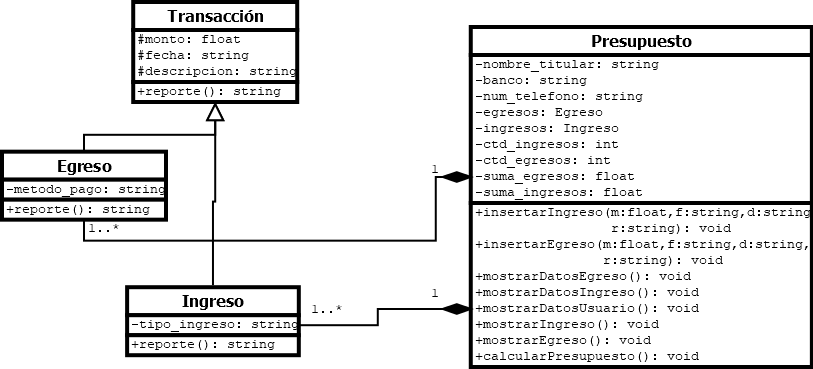
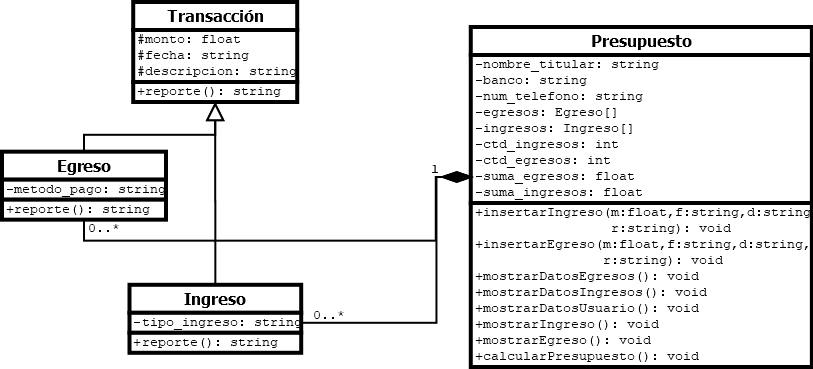
Correcciones finales al proyecto.

diff --git a/main.cpp b/main.cpp
@@ -16,7 +16,7 @@
  * que puede realizar el usuario
  * 
  * 
-*/
+ */
 
 void menu(){
     std::cout << "********** MENU  DE OPCIONES **********" << std::endl;
@@ -34,11 +34,11 @@ void menu(){
 
 /*
  * El presente programa está hecho para la clase de 
- * Pensamiento Computacional Orientado a Objtos. Consiste 
+ * Pensamiento Computacional Orientado a Objetos. Consiste 
  * en un sistema de ingresos y egresos que busca ser similar a 
  * Paypal, donde podemos tener varias cuentas a las que registramos
  * dichas transacciones.
-*/
+ */
 
 int main(){
 
@@ -46,11 +46,19 @@ int main(){
     char respuesta_usuario = ' ';
     int num_cuentas = 1;
     int cuenta_actual = 0;
+    float _ctd;
+    std::string fecha, fuente, detalles;
+    std::string nombre, banco, telefono;
     
     // Ciclo que mantiene el programa funcionando hasta que el usuario decida detenerlo
     while(respuesta_usuario != '0'){
         menu();
-        std::cout << "Que desea hacer?: ";
+
+        if(cuentas[cuenta_actual].getNombreTitular()=="" || cuentas[cuenta_actual].getBanco()=="" || cuentas[cuenta_actual].getNumTelefono()==""){
+            std::cout << "Nota: su cuenta esta incompleta" << std::endl;
+        }
+
+        std::cout << "Que desea hacer?: ";  
         std::cin >> respuesta_usuario;
 
         switch(respuesta_usuario){
@@ -64,7 +72,7 @@ int main(){
             * 
             */
             case '1':{
-                if(num_cuentas > 1){
+                if(num_cuentas > 0){
                     std::cout << "N. de cuentas disponibles: " << num_cuentas <<std::endl;
                         for(int i = 0; i < num_cuentas; i++){
                             std::cout << (i+1) << "."<< std::endl;
@@ -82,12 +90,14 @@ int main(){
             //En este segundo caso, se muestran los datos de todos los egresos de la cuenta.
             case '2':{
                 cuentas[cuenta_actual].mostrarDatosEgresos();
+                cuentas[cuenta_actual].mostrarEgreso();
                 break;
             }
 
-            //EPara el tercer caso, se hace lo mismo que en el caso anterior, ahora para los ingresos
+            //Para el tercer caso, se hace lo mismo que en el caso anterior, ahora para los ingresos
             case '3':{
                 cuentas[cuenta_actual].mostrarDatosIngresos();
+                cuentas[cuenta_actual].mostrarIngreso();
                 break;
             }
 
@@ -101,23 +111,18 @@ int main(){
             /*
              * Quinto caso. Se solicita información para crear un nuevo egreso y 
              * colocarlo en la cuenta actual
-            */
+             */
             case '5':{
-                float _ctd;
-                std::string fecha;
-                std::string fuente;
-                std::string detalles;
-
-                std::cout << "Ingrese la cantidad que se ha gastado: "<< std::endl;
-                std::cin >> _ctd;
+            
+                std::cin.ignore();
                 std::cout << "Ingrese el metodo de pago: "<< std::endl;
-                std::cin.ignore(1, '\n');
                 std::getline(std::cin, fuente);
                 std::cout << "Ingrese la fecha que se ha generado la compra: "<< std::endl;
-                std::cin >> fecha;
+                std::getline(std::cin, fecha);
                 std::cout << "Ingrese detalles de la compra: "<< std::endl;
-                std::cin.ignore(1, '\n');
                 std::getline(std::cin, detalles);
+                std::cout << "Ingrese la cantidad que se ha gastado: "<< std::endl;
+                std::cin >> _ctd;
 
                 cuentas[cuenta_actual].insertarEgreso(_ctd, fecha, detalles, fuente);
                 break;
@@ -125,21 +130,16 @@ int main(){
 
             //Mismo proceso que el anterior, pero ahora solicita información para insertar un ingreso
             case '6':{
-                float _ctd;
-                std::string fecha;
-                std::string fuente;
-                std::string detalles;
 
-                std::cout << "Ingrese la cantidad que se ha ganado: "<< std::endl;
-                std::cin >> _ctd;
+                std::cin.ignore();
                 std::cout << "Ingrese la fuente del ingreso: "<< std::endl;
-                std::cin.ignore(1, '\n');
                 std::getline(std::cin, fuente);
                 std::cout << "Ingrese la fecha que se ha generado el ingreso: "<< std::endl;
-                std::cin >> fecha;
+                std::getline(std::cin, fecha);
                 std::cout << "Ingrese detalles de la transaccion: "<< std::endl;
-                std::cin.ignore(1, '\n');
                 std::getline(std::cin, detalles);
+                std::cout << "Ingrese la cantidad que se ha ganado: "<< std::endl;
+                std::cin >> _ctd;
 
                 cuentas[cuenta_actual].insertarIngreso(_ctd, fecha, detalles, fuente);
                 break;
@@ -147,16 +147,15 @@ int main(){
 
             // Solicita información para crear una cuenta nueva
             case '7':{
-                std::string nombre, banco, telefono;
+                
+                std::cin.ignore();
                 std::cout << "Ingrese el nombre del titular de la cuenta: ";
-                std::cin.ignore(1, '\n');
                 std::getline(std::cin, nombre);
                 std::cout << "Ingrese el banco al que pertenece la cuenta: ";
-                std::cin >> banco;
+                std::getline(std::cin, banco);
                 std::cout << "Ingrese el telefono de contacto del titular de la cuenta: ";
-                std::cin >> telefono;
-                std::cout << std::endl;
-                cuentas[num_cuentas-1] = Presupuesto(nombre, banco, telefono);
+                std::getline(std::cin, telefono);
+                cuentas[num_cuentas] = Presupuesto(nombre, banco, telefono);
                 num_cuentas++;
                 break;
             }
@@ -172,20 +171,20 @@ int main(){
             * para cambiar los datos de la cuenta actual 
             */
             case '9':{
-                std::string nombre, banco, telefono;
+
+                std::cin.ignore();
                 std::cout << "Ingrese el nombre del titular de la cuenta: ";
-                std::cin.ignore(1, '\n');
                 std::getline(std::cin, nombre);
                 std::cout << "Ingrese el banco al que pertenece la cuenta: ";
-                std::cin >> banco;
+                std::getline(std::cin, banco);
                 std::cout << "Ingrese el telefono de contacto del titular de la cuenta: ";
-                std::cin >> telefono;
+                std::getline(std::cin, telefono);
                 std::cout << std::endl;
                 
                 cuentas[cuenta_actual].setNombreTitular(nombre);
                 cuentas[cuenta_actual].setBanco(banco);
                 cuentas[cuenta_actual].setNumTelefono(telefono);
-                 break;
+                break;
             }
         }
     }

diff --git a/Presupuesto.h b/Presupuesto.h
@@ -34,16 +34,19 @@ class Presupuesto{
 
         //Constructor con parametros
         Presupuesto(std::string nombre, std::string empresa, std::string telefono) : nombre_titular(nombre), banco(empresa), num_telefono(telefono){};
+
+        //Getters y Setters
         void setNombreTitular(std::string);
         void setNumTelefono(std::string);
         void setBanco(std::string);
         std::string getNombreTitular();
         std::string getNumTelefono();
         std::string getBanco();
+
         void insertarIngreso(float, std::string, std::string, std::string);
         void insertarEgreso(float, std::string, std::string, std::string);
-        void mostrarDatosIngresos();
         void mostrarDatosEgresos();
+        void mostrarDatosIngresos();
         void mostrarDatosUsuario();
         void mostrarIngreso();
         void mostrarEgreso();
@@ -55,7 +58,7 @@ class Presupuesto{
  *
  * @param 
  * @return objeto Presupuesto
-*/
+ */
 Presupuesto::Presupuesto(){
     nombre_titular = "";
     banco = "";
@@ -67,7 +70,7 @@ Presupuesto::Presupuesto(){
  *
  * @param string n: nombre del titular de la cuenta
  * @return
-*/
+ */
 void Presupuesto::setNombreTitular(std::string n){
     nombre_titular = n;
 }
@@ -81,6 +84,7 @@ void Presupuesto::setNombreTitular(std::string n){
 void Presupuesto::setBanco(std::string b){
     banco = b;
 }
+
 /**
  * setter telefono
  *
@@ -106,7 +110,7 @@ std::string Presupuesto::getNombreTitular(){
  *
  * @param 
  * @return string banco: nombre del banco al que pertenece la cuenta: 
-*/
+ */
 std::string Presupuesto::getBanco(){
     return banco;
 }
@@ -126,15 +130,14 @@ std::string Presupuesto::getNumTelefono(){
  *y guardarlo dentro del arreglo de dicha clase
  */
 void Presupuesto::insertarIngreso(float m, std::string f, std::string d, std::string r){
-    Ingreso ingreso(m, f, d, r);
-    ingresos[ctd_ingresos] = ingreso;
+    ingresos[ctd_ingresos] = Ingreso(m, f, d, r);
     suma_ingresos+=m;
     ctd_ingresos++;
 }
 
 /*
- *Solicita varios parámetros que permitan crear un egreso 
- *y guardarlo dentro del arreglo de dicha clase
+ * Solicita varios parámetros que permitan crear un egreso 
+ * y guardarlo dentro del arreglo de dicha clase
  */
 
 /*
@@ -145,8 +148,7 @@ void Presupuesto::insertarIngreso(float m, std::string f, std::string d, std::st
  * @return  
 */
 void Presupuesto::insertarEgreso(float m, std::string f, std::string d, std::string r){
-    Egreso egreso(m, f, d, r);
-    egresos[ctd_egresos] = egreso;
+    egresos[ctd_egresos] = Egreso(m, f, d, r);
     suma_egresos+=m;
     ctd_egresos++;
 }
@@ -206,7 +208,7 @@ void Presupuesto::mostrarIngreso(){
  * @return 
 */
 void Presupuesto::mostrarEgreso(){
-    std::cout << "El gasto total es: " << suma_ingresos << std::endl;
+    std::cout << "El gasto total es: " << suma_egresos << std::endl;
 }
 
 /*
@@ -217,7 +219,7 @@ void Presupuesto::mostrarEgreso(){
 */
 void Presupuesto::calcularPresupuesto(){
 
-    std::cout << "El presupuesto para este mes es de "<<suma_ingresos-suma_egresos << " pesos." <<std::endl;
+    std::cout << "El presupuesto de esta cuenta es de: "<<suma_ingresos-suma_egresos << " pesos." <<std::endl;
 
 }
 #endif

diff --git a/Egreso.h b/Egreso.h
@@ -19,8 +19,6 @@
 #include "Transaccion.h"
 #include<string>
 
-
-
 class Egreso: public Transaccion{
 
     private:
@@ -28,12 +26,15 @@ class Egreso: public Transaccion{
         std::string  metodo_pago;
     
     public:
+    //Constructores
         Egreso();
         Egreso(float, std::string, std::string, std::string);
+
+    //Getters y setters
         void setMetodoPago(std::string);
         std::string getMetodoPago();
+
         std::string reporte();
-        
 };
 
 /**
@@ -52,7 +53,7 @@ Egreso::Egreso(): Transaccion(){
  * @param float m: monto gastado, string s: fecha de la transacción, string d:descripcion de la transaccion,string r: metodo de pago
  * @return objeto Egreso
 */
-Egreso::Egreso(float m, std::string s, std::string d, std::string r) : Transaccion(m, s, d){
+Egreso::Egreso(float m, std::string f, std::string d, std::string r) : Transaccion(m, f, d){
     metodo_pago = r;
 }
 
@@ -81,10 +82,10 @@ std::string Egreso::getMetodoPago(){
  *
  * @param 
  * @return string: regresa un valor string que contiene todos los atributos del objeto en 
- * un formato más legible
+ * un formato más legible que incluye el método de pago.
 */
 std::string Egreso::reporte(){
-        return "Monto << "+std::to_string(monto) + "\nFecha << "+ fecha + "\nDescripcion << "+descripcion + "\nDetalles de la transaccion: << " + metodo_pago + "\n"; 
+        return "Monto << "+std::to_string(monto) + "\nFecha << "+ fecha + "\nDescripcion << "+descripcion + "\nMetodo de pago: << " + metodo_pago + "\n"; 
 }
 
 

diff --git a/Ingreso.h b/Ingreso.h
@@ -6,6 +6,14 @@
  * 
 */
 
+
+/*
+ * Clase Ingreso, es una de las dos clases hijas que en este programa 
+ * representa una ganancia, en la cual se incluyen otros detalles
+ * como la fecha o el tipo de ingreso.
+ * 
+ */
+
 #ifndef INGRESO_H_
 #define INGRESO_H_
 
@@ -19,8 +27,10 @@ class Ingreso: public Transaccion{
         std::string tipo_ingreso;
     
     public:
+    //Constructores
         Ingreso();
         Ingreso(float, std::string, std::string, std::string);
+    
         std::string getTipoIngreso();
         void setTipoIngreso(std::string);
         std::string reporte();
@@ -41,7 +51,7 @@ Ingreso::Ingreso(){
  * @param float m: monto gastado, string s: fecha de la transacción, string d:descripcion de la transaccion,string r: tipo de ingreso
  * @return objeto Ingreso
 */
-Ingreso::Ingreso(float m, std::string s, std::string d, std::string r) : Transaccion(m, s, d){
+Ingreso::Ingreso(float m, std::string f, std::string d, std::string r) : Transaccion(m, f, d){
     tipo_ingreso = r;
 }
 /**
@@ -67,7 +77,7 @@ void Ingreso::setTipoIngreso(std::string b){
  *
  * @param 
  * @return string: regresa un valor string que contiene todos los atributos del objeto en 
- * un formato más legible
+ * un formato más legible, que inclute el tipo de ingreso.
 */
 std::string Ingreso::reporte(){
         return "Monto << "+std::to_string(monto) + "\nFecha << "+ fecha + "\nDescripcion << "+descripcion + "\nTipo de ingreso: << " + tipo_ingreso + "\n"; 

diff --git a/Transaccion.h b/Transaccion.h
@@ -26,14 +26,18 @@ class Transaccion{
         std::string fecha;
         std::string descripcion;
     public:
+    //Constructores
         Transaccion();
         Transaccion(float m, std::string s, std::string d): monto(m), fecha(s),descripcion(d){};
+
+    //Getters y setters
         void setMonto(float);
         void setFecha(std::string);
         void setDescripcion(std::string);
         float getMonto();
         std::string getFecha();
         std::string getDescripcion();
+        
         std::string reporte();
 
 };
